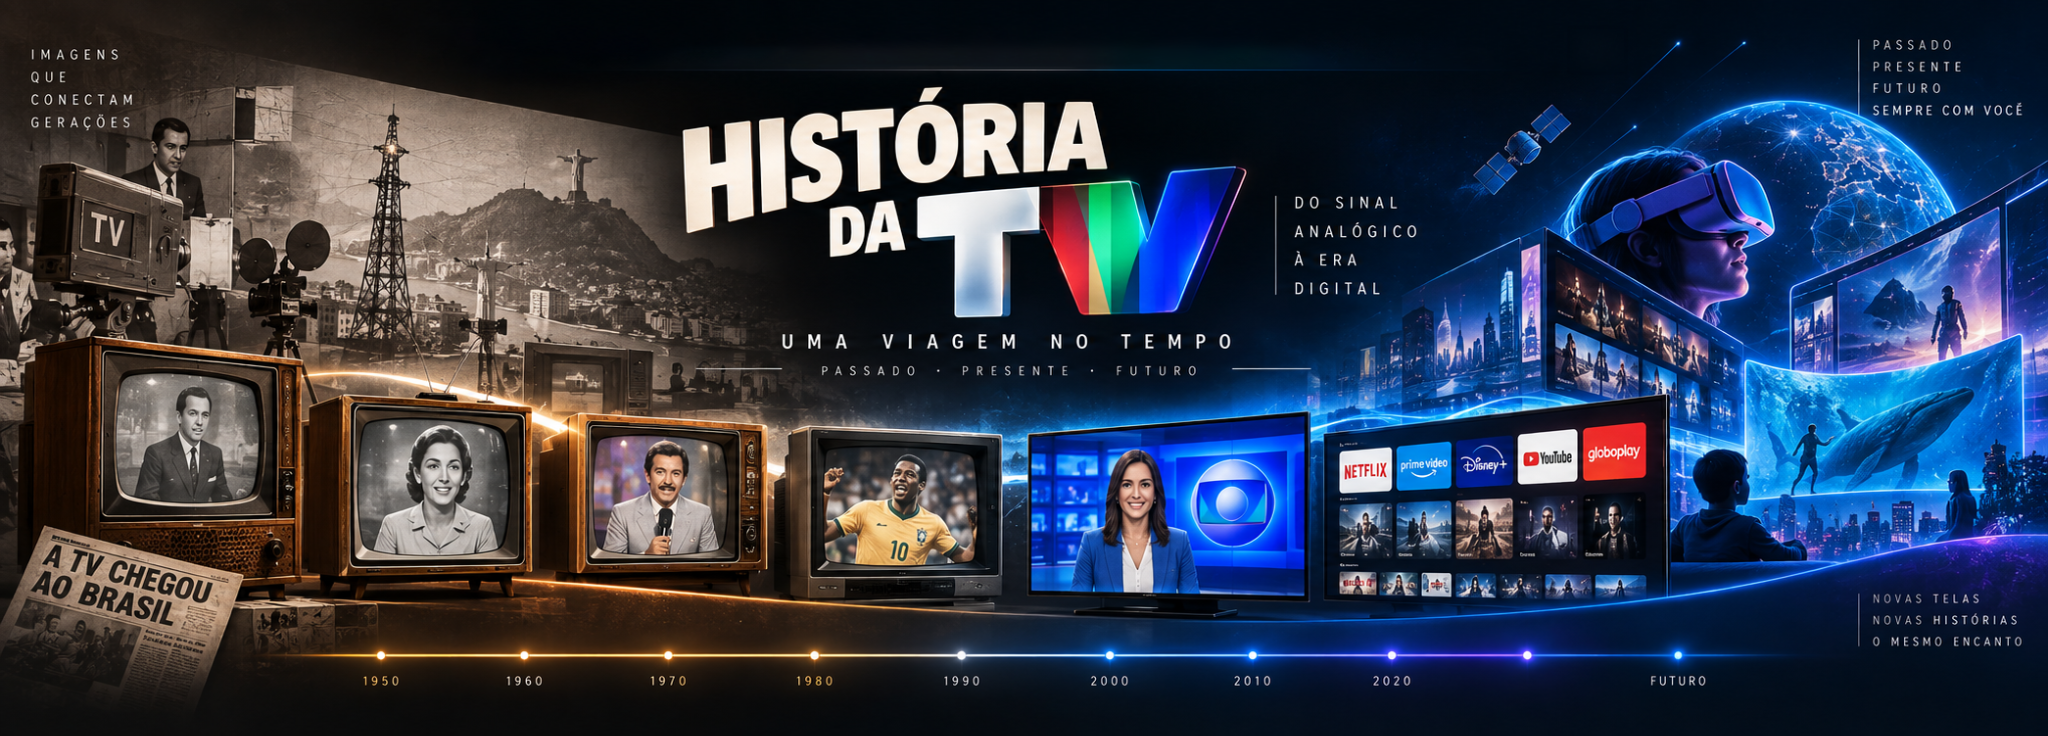
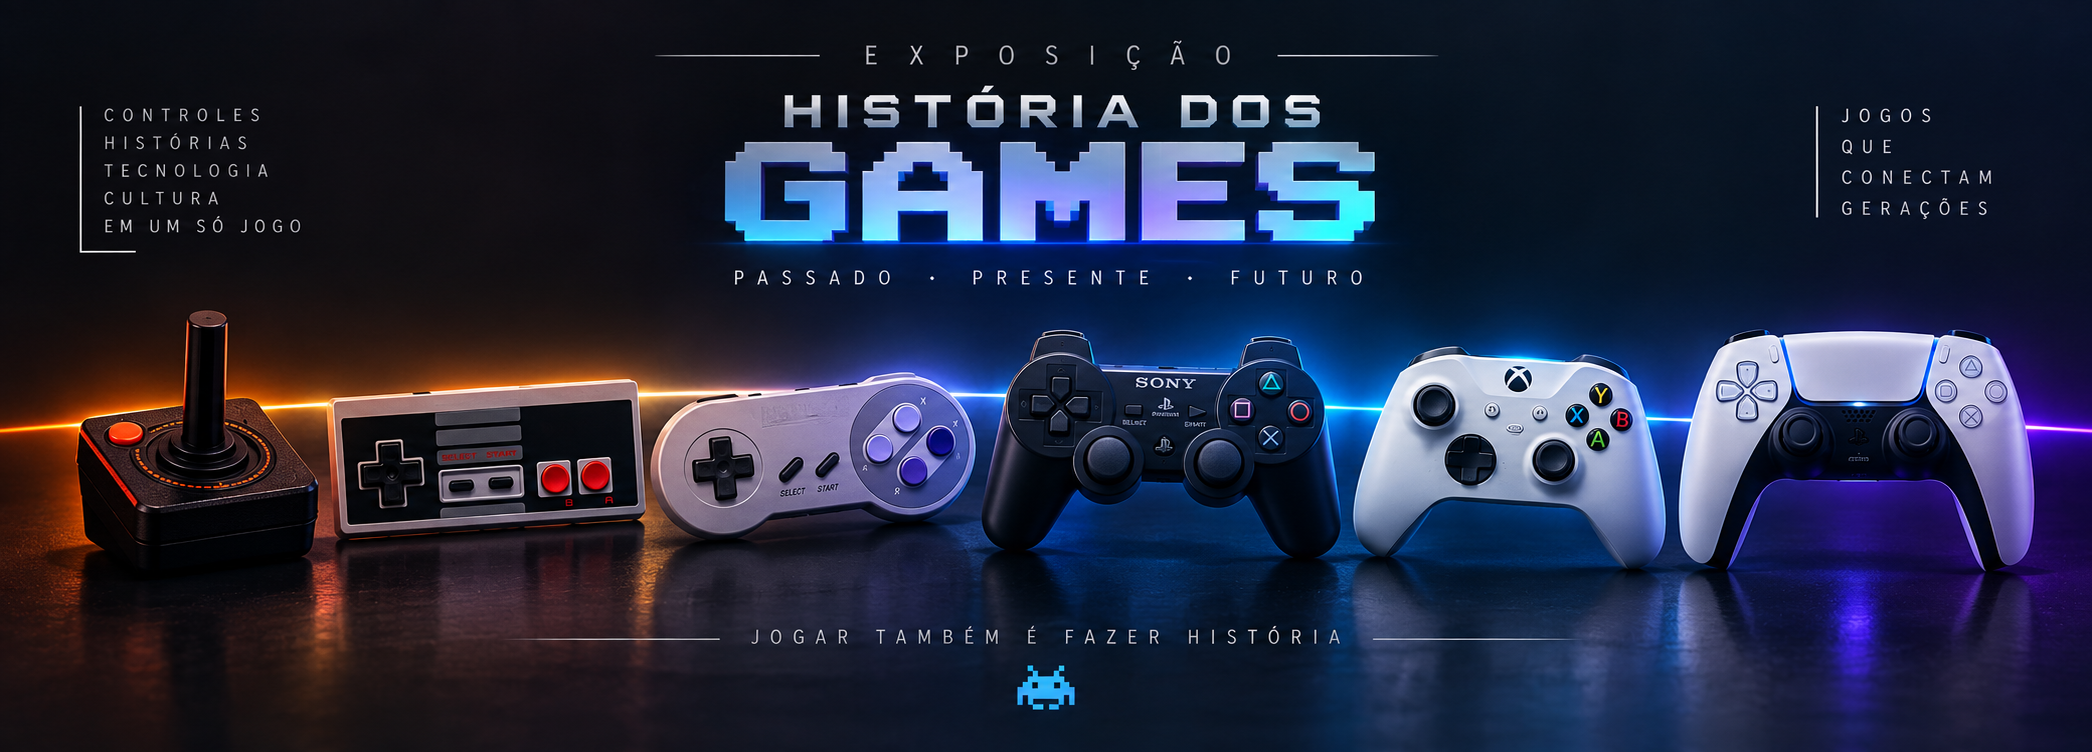
games

diff --git a/games/index.html b/games/index.html
@@ -9,7 +9,7 @@
     content="width=device-width, initial-scale=1.0, user-scalable=no"
   >
 
-  <title>História dos Games — Exposição MR</title>
+  <title>História da TV — Exposição MR</title>
 
   <script src="https://aframe.io/releases/1.7.1/aframe.min.js"></script>
 
@@ -150,15 +150,15 @@
 
 <div id="entrada">
   <main class="hero">
-    <img src="./topo.png" alt="História dos Games — passado, presente e futuro">
+    <img src="./topo.png" alt="História da TV — do sinal analógico ao futuro">
 
     <section class="hero-conteudo">
-      <h1>História dos Games</h1>
+      <h1>História da TV</h1>
 
       <p class="subtitulo">
-        Uma viagem pela história dos games — dos primeiros experimentos e consoles,
-        passando pelos arcades e pelas diferentes gerações de videogames, até os jogos
-        conectados e as experiências imersivas.
+        Uma viagem pela evolução da televisão — dos primeiros sinais analógicos,
+        passando pela TV em cores e pela era digital, até as experiências
+        conectadas e imersivas.
       </p>
 
       <p class="autor">
